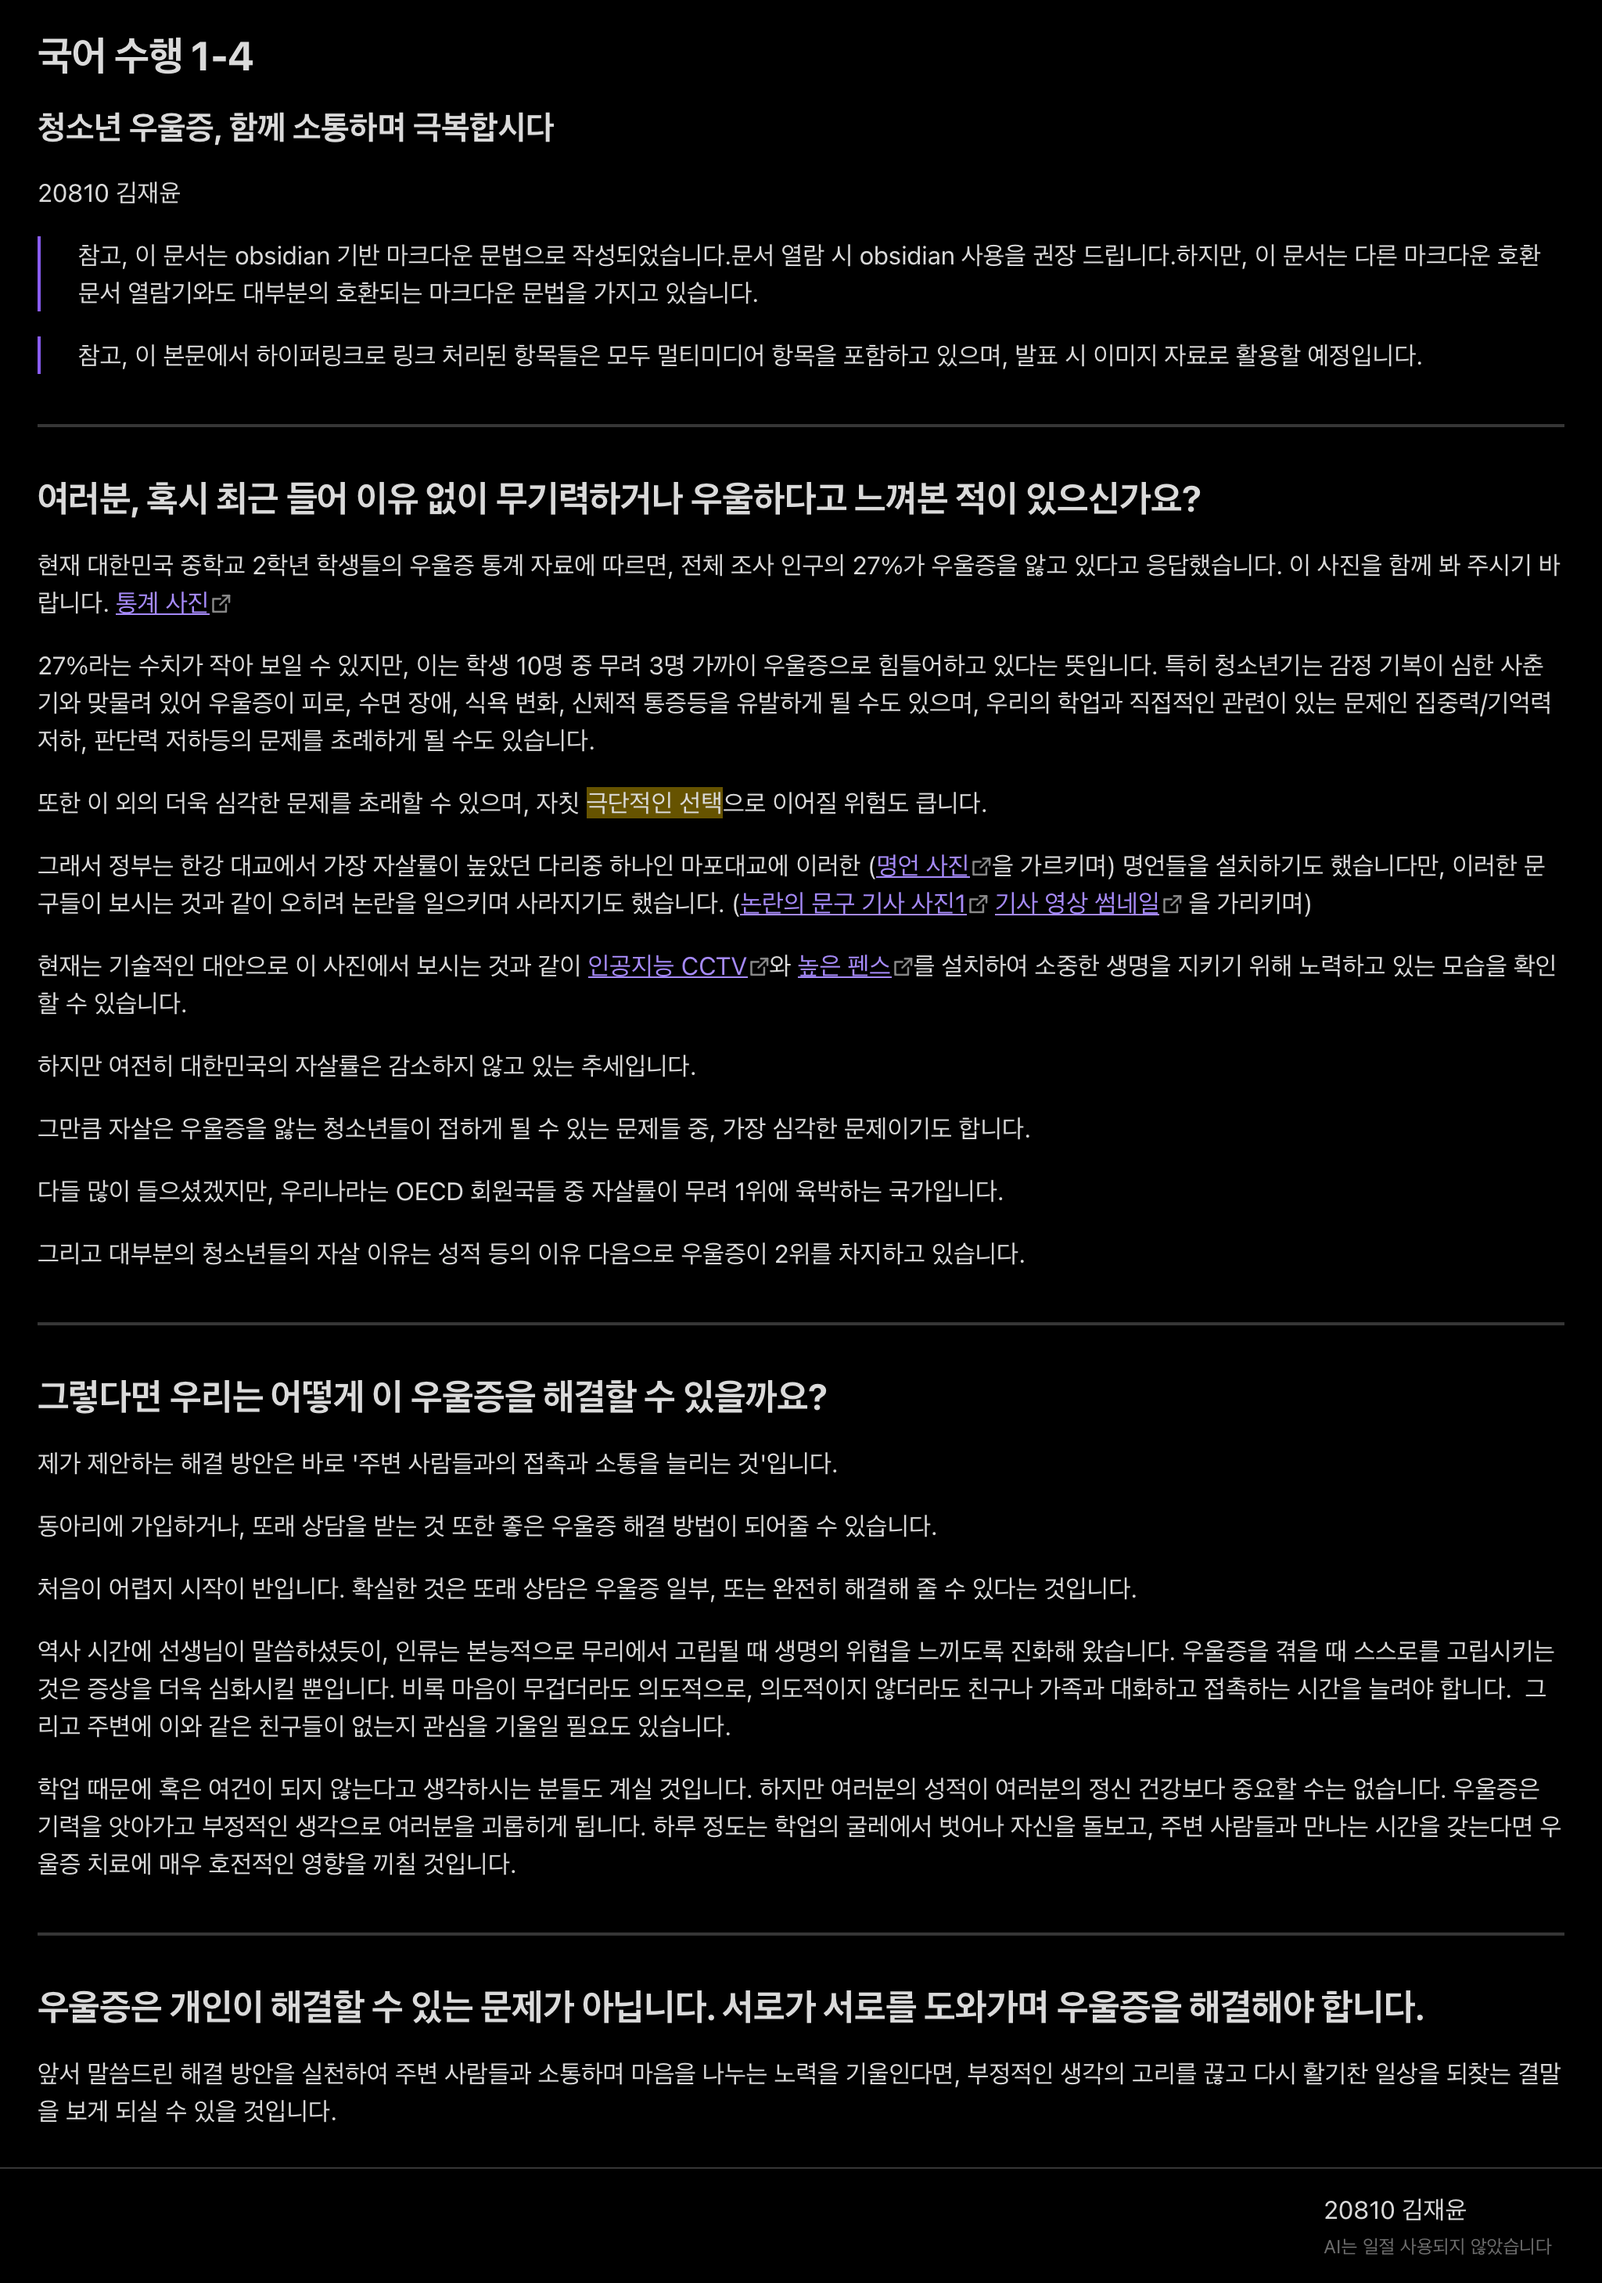
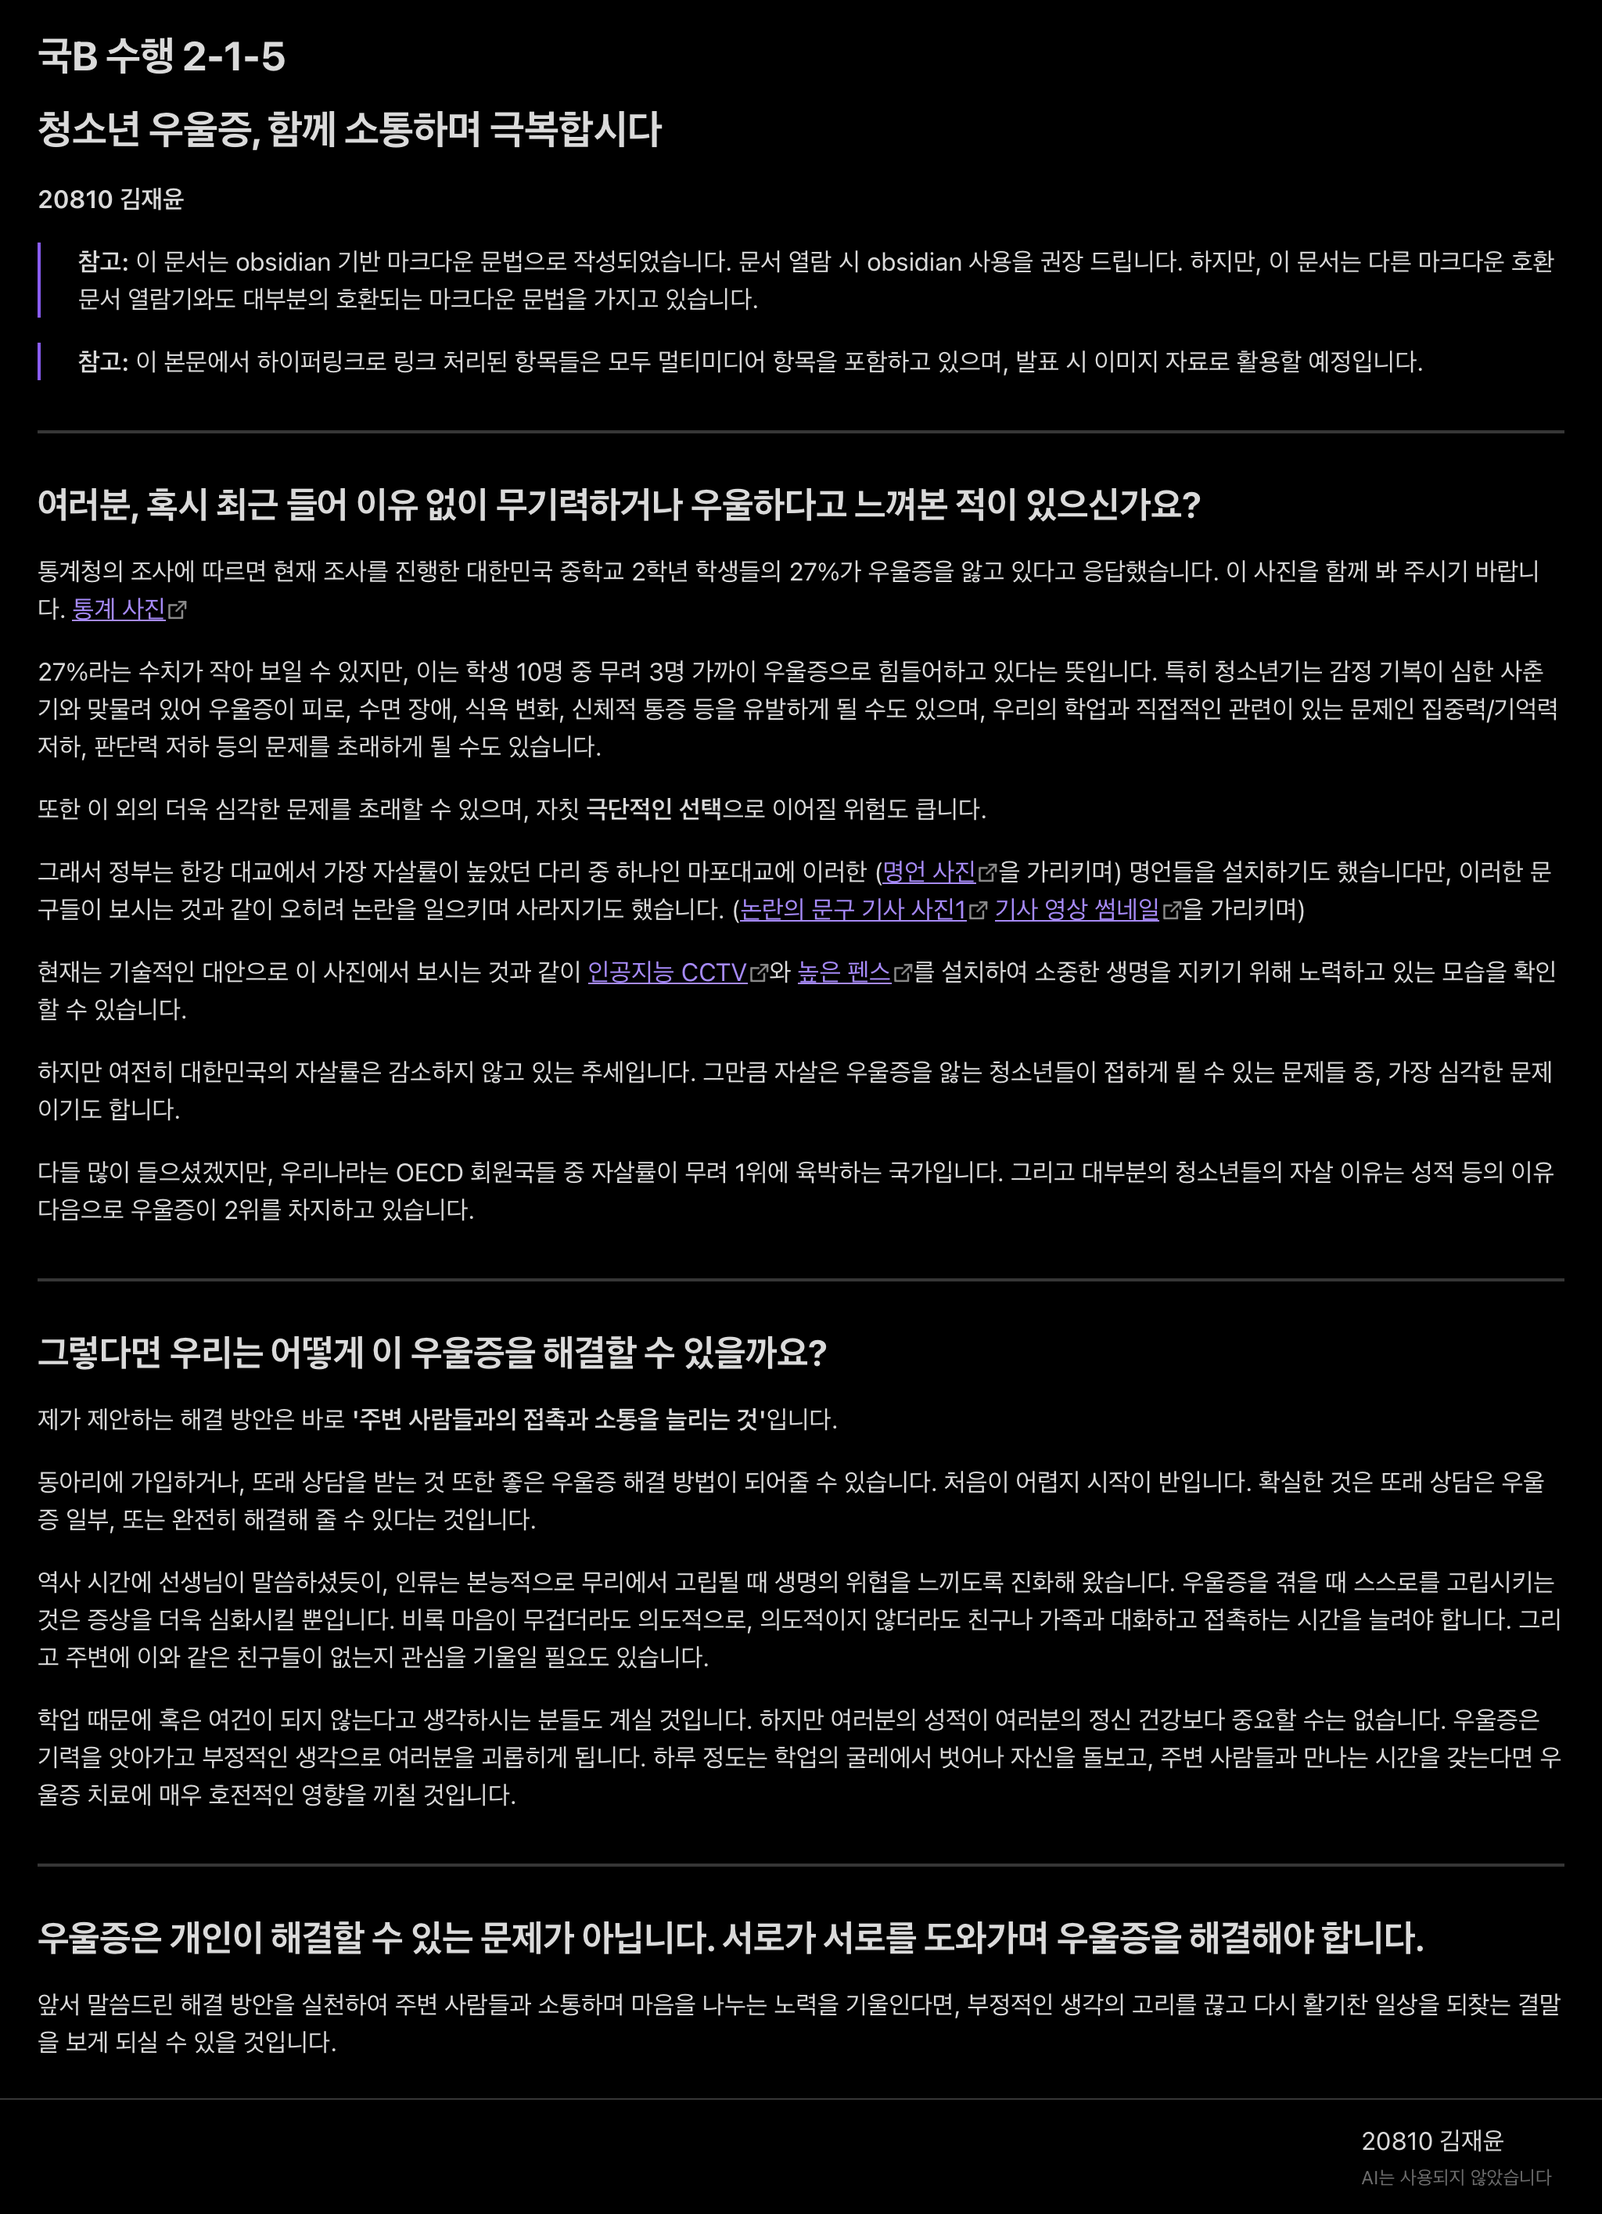
평가 기준에 맞추어 내용 업데이트
자고싶다

diff --git a/krb.html b/krb.html
@@ -325,7 +325,7 @@ body { --background-primary: black; --interactive-accent: #895FE6;
 <body>
 
   <div id="preview-wrapper" style="max-width: 800px; margin: 2em auto; padding: 2em;">
-<h3>청소년 우울증, 함께 소통하며 극복합시다</h3><p>20810 김재윤</p><blockquote><p>참고, 이 문서는 obsidian 기반 마크다운 문법으로 작성되었습니다.문서 열람 시 obsidian 사용을 권장 드립니다.하지만, 이 문서는 다른 마크다운 호환 문서 열람기와도 대부분의 호환되는 마크다운 문법을 가지고 있습니다.</p></blockquote><blockquote><p>참고, 이 본문에서 하이퍼링크로 링크 처리된 항목들은 모두 멀티미디어 항목을 포함하고 있으며, 발표 시 이미지 자료로 활용할 예정입니다.</p></blockquote><hr><h2>여러분, 혹시 최근 들어 이유 없이 무기력하거나 우울하다고 느껴본 적이 있으신가요?</h2><p>현재 대한민국 중학교 2학년 학생들의 우울증 통계 자료에 따르면, 전체 조사 인구의 27%가 우울증을 앓고 있다고 응답했습니다. 이 사진을 함께 봐 주시기 바랍니다. <a href="https://www.donga.com/news/Society/article/all/20240306/123830660/1" target="_blank">통계 사진</a></p><p>27%라는 수치가 작아 보일 수 있지만, 이는 학생 10명 중 무려 3명 가까이 우울증으로 힘들어하고 있다는 뜻입니다. 특히 청소년기는 감정 기복이 심한 사춘기와 맞물려 있어 우울증이 피로, 수면 장애, 식욕 변화, 신체적 통증등을 유발하게 될 수도 있으며, 우리의 학업과 직접적인 관련이 있는 문제인 집중력/기억력 저하, 판단력 저하등의 문제를 초례하게 될 수도 있습니다.</p><p>또한 이 외의 더욱 심각한 문제를 초래할 수 있으며, 자칫 <mark>극단적인 선택</mark>으로 이어질 위험도 큽니다.</p><p>그래서 정부는 한강 대교에서 가장 자살률이 높았던 다리중 하나인 마포대교에 이러한 (<a href="http://m.bokjinews.com/news/articleView.html?idxno=98931" target="_blank">명언 사진</a>을 가르키며) 명언들을 설치하기도 했습니다만, 이러한 문구들이 보시는 것과 같이 오히려 논란을 일으키며 사라지기도 했습니다. (<a href="https://normalmedia.co.kr/mobile/article.html?no=23457" target="_blank">논란의 문구 기사 사진1</a> <a href="https://imnews.imbc.com/replay/2019/nwtoday/article/5504682_28983.html" target="_blank">기사 영상 썸네일</a> 을 가리키며)</p><p>현재는 기술적인 대안으로 이 사진에서 보시는 것과 같이 <a href="https://m.blog.naver.com/PostView.naver?blogId=deans14&logNo=222477451368&proxyReferer=https:%2F%2Fwww.google.com%2F&trackingCode=ext" target="_blank">인공지능 CCTV</a>와 <a href="https://biz.chosun.com/topics/topics_social/2021/08/04/Z4HL5GE5UBGMBBWXCUSBAYTUYY/" target="_blank">높은 펜스</a>를 설치하여 소중한 생명을 지키기 위해 노력하고 있는 모습을 확인할 수 있습니다.</p><p>하지만 여전히 대한민국의 자살률은 감소하지 않고 있는 추세입니다.</p><p>그만큼 자살은 우울증을 앓는 청소년들이 접하게 될 수 있는 문제들 중, 가장 심각한 문제이기도 합니다.</p><p>다들 많이 들으셨겠지만, 우리나라는 OECD 회원국들 중 자살률이 무려 1위에 육박하는 국가입니다.</p><p>그리고 대부분의 청소년들의 자살 이유는 성적 등의 이유 다음으로 우울증이 2위를 차지하고 있습니다.</p><hr><h2>그렇다면 우리는 어떻게 이 우울증을 해결할 수 있을까요? </h2><p>제가 제안하는 해결 방안은 바로 '주변 사람들과의 접촉과 소통을 늘리는 것'입니다.</p><p>동아리에 가입하거나, 또래 상담을 받는 것 또한 좋은 우울증 해결 방법이 되어줄 수 있습니다.</p><p>처음이 어렵지 시작이 반입니다. 확실한 것은 또래 상담은 우울증 일부, 또는 완전히 해결해 줄 수 있다는 것입니다.</p><p>역사 시간에 선생님이 말씀하셨듯이, 인류는 본능적으로 무리에서 고립될 때 생명의 위협을 느끼도록 진화해 왔습니다. 우울증을 겪을 때 스스로를 고립시키는 것은 증상을 더욱 심화시킬 뿐입니다. 비록 마음이 무겁더라도 의도적으로, 의도적이지 않더라도 친구나 가족과 대화하고 접촉하는 시간을 늘려야 합니다.  그리고 주변에 이와 같은 친구들이 없는지 관심을 기울일 필요도 있습니다.</p><p>학업 때문에 혹은 여건이 되지 않는다고 생각하시는 분들도 계실 것입니다. 하지만 여러분의 성적이 여러분의 정신 건강보다 중요할 수는 없습니다. 우울증은 기력을 앗아가고 부정적인 생각으로 여러분을 괴롭히게 됩니다. 하루 정도는 학업의 굴레에서 벗어나 자신을 돌보고, 주변 사람들과 만나는 시간을 갖는다면 우울증 치료에 매우 호전적인 영향을 끼칠 것입니다.</p><hr><h2>우울증은 개인이 해결할 수 있는 문제가 아닙니다. 서로가 서로를 도와가며 우울증을 해결해야 합니다.</h2><p>앞서 말씀드린 해결 방안을 실천하여 주변 사람들과 소통하며 마음을 나누는 노력을 기울인다면, 부정적인 생각의 고리를 끊고 다시 활기찬 일상을 되찾는 결말을 보게 되실 수 있을 것입니다.</p>
+<h1>청소년 우울증, 함께 소통하며 극복합시다</h1><p><b>20810 김재윤</b></p><blockquote><p><b>참고:</b> 이 문서는 obsidian 기반 마크다운 문법으로 작성되었습니다. 문서 열람 시 obsidian 사용을 권장 드립니다. 하지만, 이 문서는 다른 마크다운 호환 문서 열람기와도 대부분의 호환되는 마크다운 문법을 가지고 있습니다.</p></blockquote><blockquote><p><b>참고:</b> 이 본문에서 하이퍼링크로 링크 처리된 항목들은 모두 멀티미디어 항목을 포함하고 있으며, 발표 시 이미지 자료로 활용할 예정입니다.</p></blockquote><hr><h2>여러분, 혹시 최근 들어 이유 없이 무기력하거나 우울하다고 느껴본 적이 있으신가요?</h2><p>통계청의 조사에 따르면 현재 조사를 진행한 대한민국 중학교 2학년 학생들의 27%가 우울증을 앓고 있다고 응답했습니다. 이 사진을 함께 봐 주시기 바랍니다. <a href="https://www.donga.com/news/Society/article/all/20240306/123830660/1" target="_blank">통계 사진</a></p><p>27%라는 수치가 작아 보일 수 있지만, 이는 학생 10명 중 무려 3명 가까이 우울증으로 힘들어하고 있다는 뜻입니다. 특히 청소년기는 감정 기복이 심한 사춘기와 맞물려 있어 우울증이 피로, 수면 장애, 식욕 변화, 신체적 통증 등을 유발하게 될 수도 있으며, 우리의 학업과 직접적인 관련이 있는 문제인 집중력/기억력 저하, 판단력 저하 등의 문제를 초래하게 될 수도 있습니다.</p><p>또한 이 외의 더욱 심각한 문제를 초래할 수 있으며, 자칫 <b>극단적인 선택</b>으로 이어질 위험도 큽니다.</p><p>그래서 정부는 한강 대교에서 가장 자살률이 높았던 다리 중 하나인 마포대교에 이러한 (<a href="http://m.bokjinews.com/news/articleView.html?idxno=98931" target="_blank">명언 사진</a>을 가리키며) 명언들을 설치하기도 했습니다만, 이러한 문구들이 보시는 것과 같이 오히려 논란을 일으키며 사라지기도 했습니다. (<a href="https://normalmedia.co.kr/mobile/article.html?no=23457" target="_blank">논란의 문구 기사 사진1</a> <a href="https://imnews.imbc.com/replay/2019/nwtoday/article/5504682_28983.html" target="_blank">기사 영상 썸네일</a>을 가리키며)</p><p>현재는 기술적인 대안으로 이 사진에서 보시는 것과 같이 <a href="https://m.blog.naver.com/PostView.naver?blogId=deans14&logNo=222477451368&proxyReferer=https:%2F%2Fwww.google.com%2F&trackingCode=ext" target="_blank">인공지능 CCTV</a>와 <a href="https://biz.chosun.com/topics/topics_social/2021/08/04/Z4HL5GE5UBGMBBWXCUSBAYTUYY/" target="_blank">높은 펜스</a>를 설치하여 소중한 생명을 지키기 위해 노력하고 있는 모습을 확인할 수 있습니다.</p><p>하지만 여전히 대한민국의 자살률은 감소하지 않고 있는 추세입니다. 그만큼 자살은 우울증을 앓는 청소년들이 접하게 될 수 있는 문제들 중, 가장 심각한 문제이기도 합니다.</p><p>다들 많이 들으셨겠지만, 우리나라는 OECD 회원국들 중 자살률이 무려 1위에 육박하는 국가입니다. 그리고 대부분의 청소년들의 자살 이유는 성적 등의 이유 다음으로 우울증이 2위를 차지하고 있습니다.</p><hr><h2>그렇다면 우리는 어떻게 이 우울증을 해결할 수 있을까요?</h2><p>제가 제안하는 해결 방안은 바로 <b>'주변 사람들과의 접촉과 소통을 늘리는 것'</b>입니다.</p><p>동아리에 가입하거나, 또래 상담을 받는 것 또한 좋은 우울증 해결 방법이 되어줄 수 있습니다. 처음이 어렵지 시작이 반입니다. 확실한 것은 또래 상담은 우울증 일부, 또는 완전히 해결해 줄 수 있다는 것입니다.</p><p>역사 시간에 선생님이 말씀하셨듯이, 인류는 본능적으로 무리에서 고립될 때 생명의 위협을 느끼도록 진화해 왔습니다. 우울증을 겪을 때 스스로를 고립시키는 것은 증상을 더욱 심화시킬 뿐입니다. 비록 마음이 무겁더라도 의도적으로, 의도적이지 않더라도 친구나 가족과 대화하고 접촉하는 시간을 늘려야 합니다. 그리고 주변에 이와 같은 친구들이 없는지 관심을 기울일 필요도 있습니다.</p><p>학업 때문에 혹은 여건이 되지 않는다고 생각하시는 분들도 계실 것입니다. 하지만 여러분의 성적이 여러분의 정신 건강보다 중요할 수는 없습니다. 우울증은 기력을 앗아가고 부정적인 생각으로 여러분을 괴롭히게 됩니다. 하루 정도는 학업의 굴레에서 벗어나 자신을 돌보고, 주변 사람들과 만나는 시간을 갖는다면 우울증 치료에 매우 호전적인 영향을 끼칠 것입니다.</p><hr><h2>우울증은 개인이 해결할 수 있는 문제가 아닙니다. 서로가 서로를 도와가며 우울증을 해결해야 합니다.</h2><p>앞서 말씀드린 해결 방안을 실천하여 주변 사람들과 소통하며 마음을 나누는 노력을 기울인다면, 부정적인 생각의 고리를 끊고 다시 활기찬 일상을 되찾는 결말을 보게 되실 수 있을 것입니다.</p>
   </div>
   </body>
 </html>
